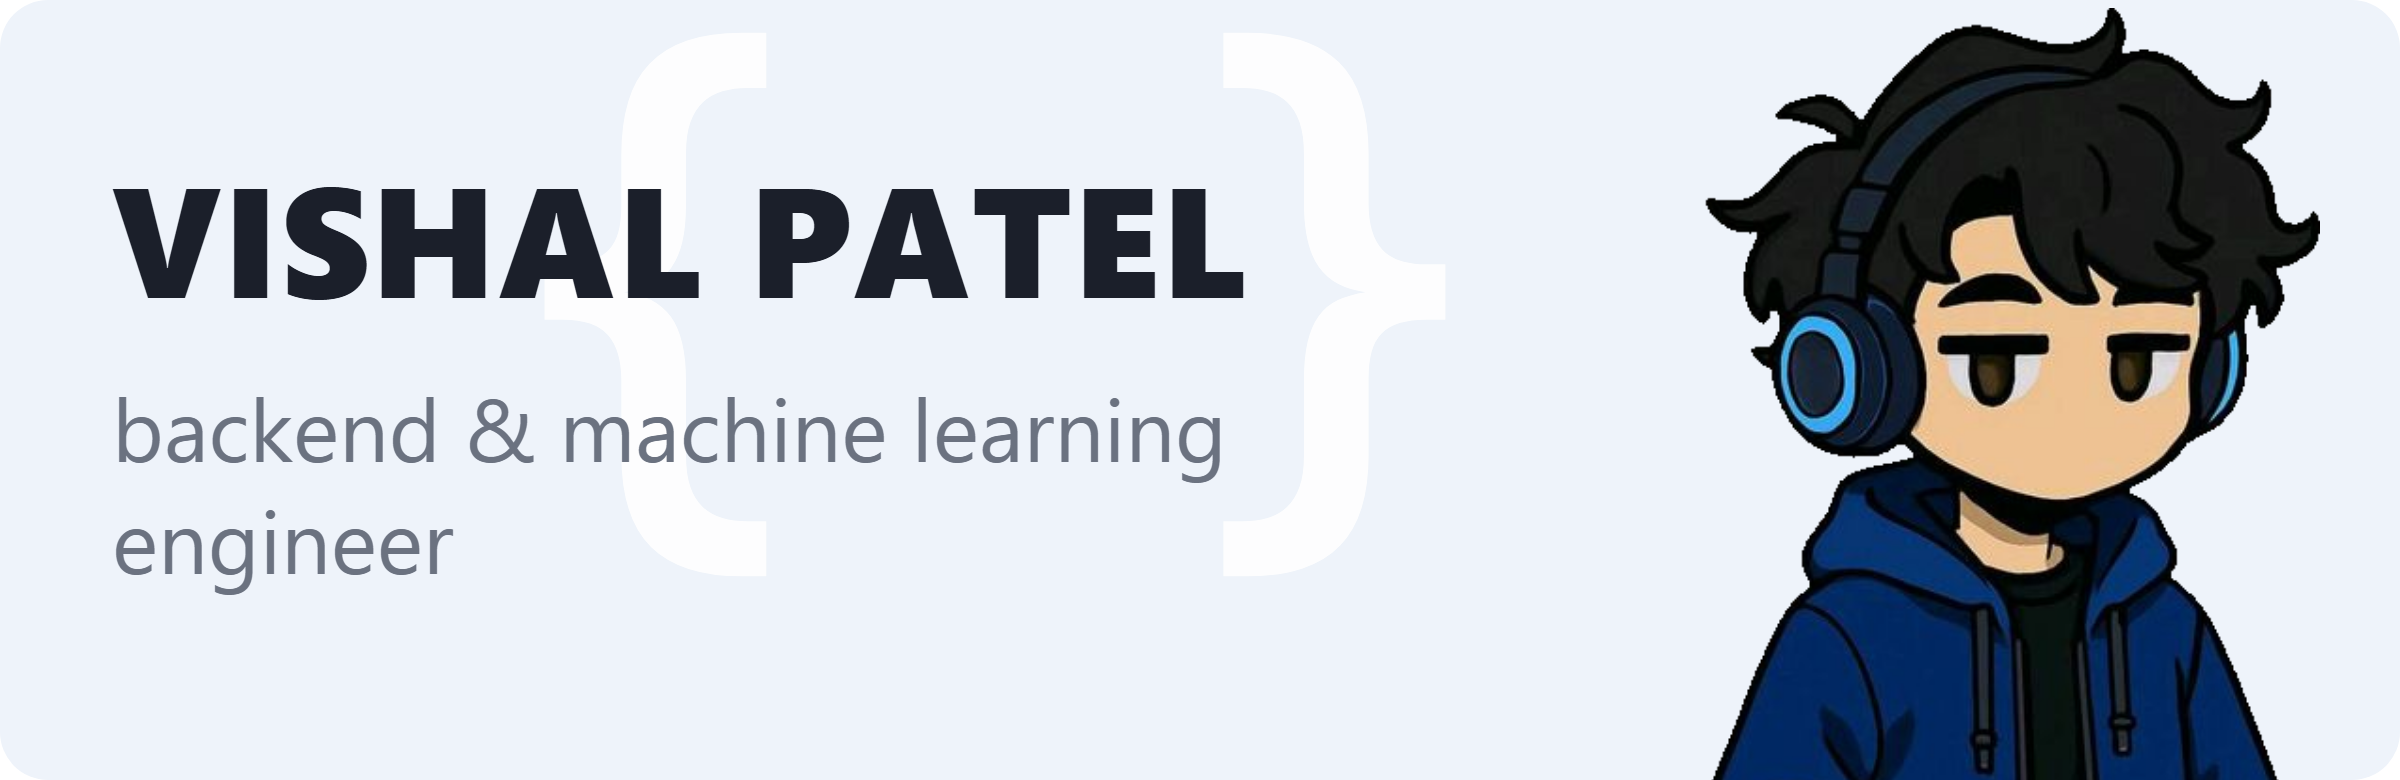
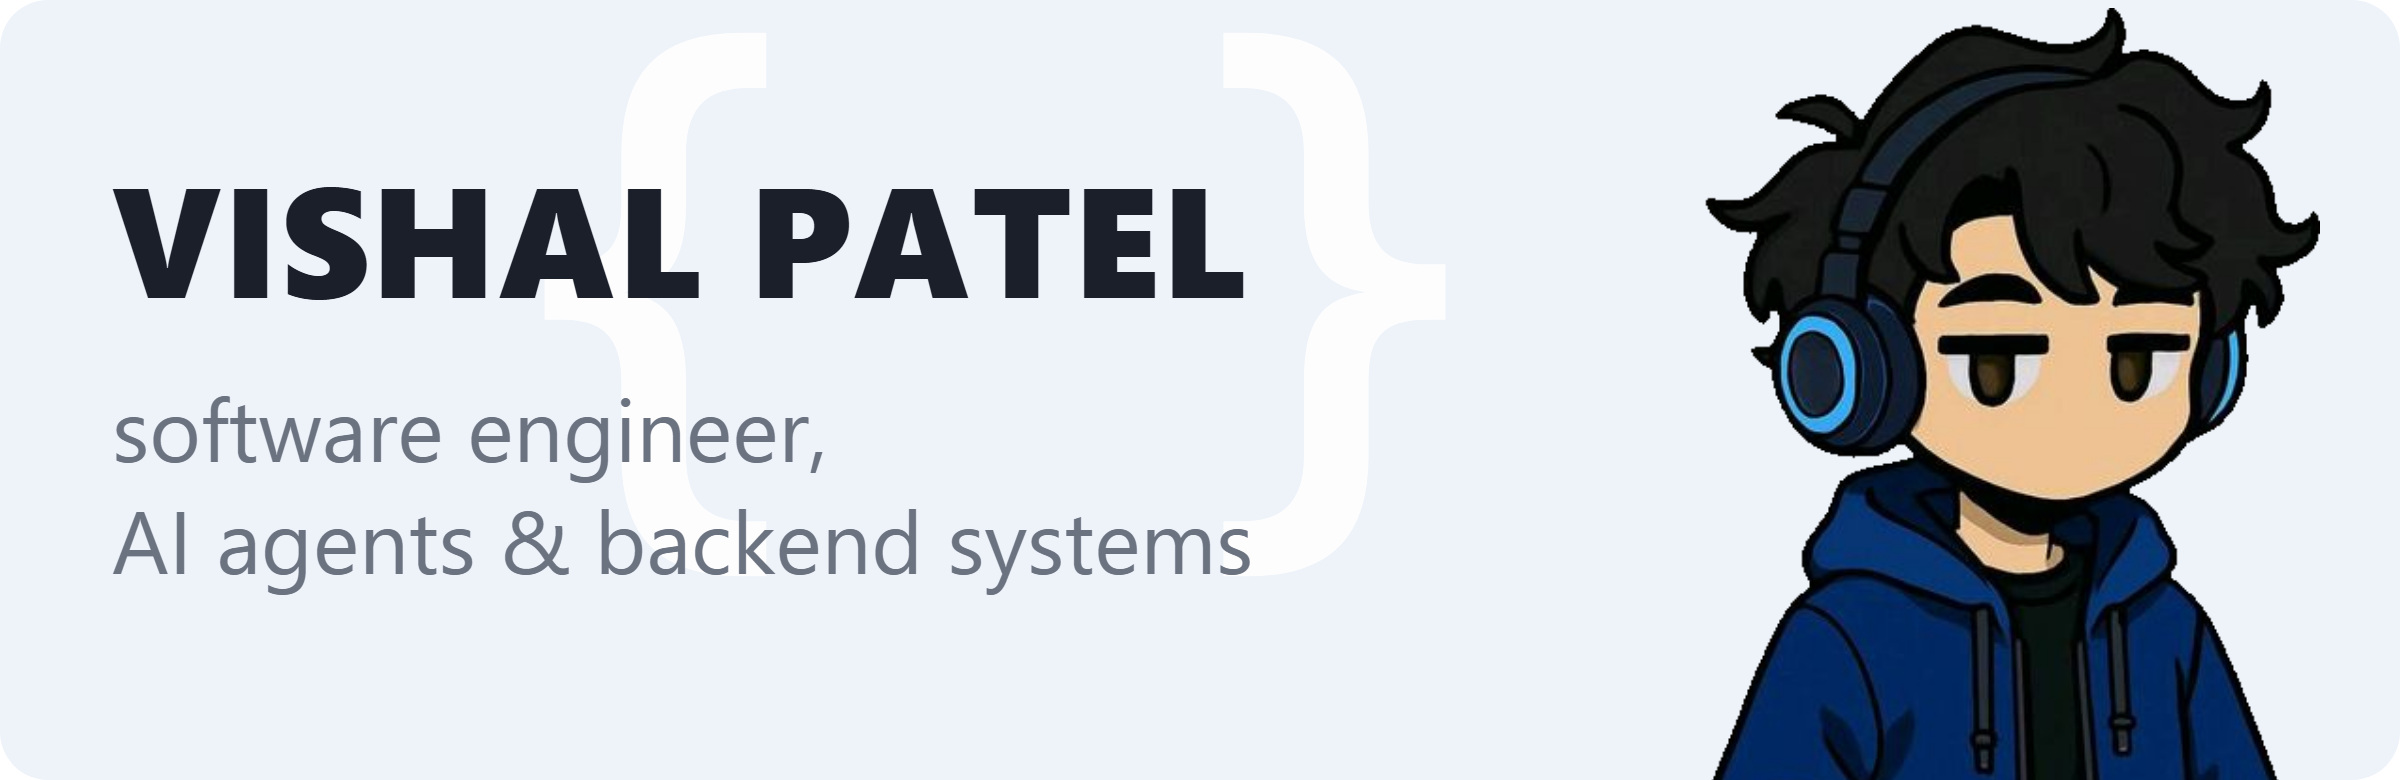
Retitle to software engineer, AI agents & backend systems
Claude-Session: https://claude.ai/code/session_01GsiTUdKBq25Wwq8PZTMJvJ

Changed region(s): [[0.0312, 0.5231, 0.5312, 0.6154], [0.0312, 0.6462, 0.5312, 0.7692]]

diff --git a/README.md b/README.md
@@ -2,7 +2,7 @@
 
 <img src="./assets/banner.png" width="100%" alt="banner that says Vishal Patel - backend and machine learning engineer alongside a cartoon illustration of Vishal wearing headphones">
 
-I'm a backend and machine learning engineer. I build production services and the ML systems behind them, then measure whether they hold up. Most of what's here started as a question I couldn't answer by reading, so I built the thing and checked the numbers. In 2026 my rental-scam checker [depositcheck](https://github.com/ishal1410/depositcheck) won the SerpApi "Best AI Use Case" award at the DevNetwork API+Cloud+AI Hackathon, and I have two pull requests open against [DataHub](https://github.com/datahub-project/datahub/pulls/ishal1410).
+I'm a software engineer. I build AI agents and the backend systems behind them, then measure whether they hold up. Most of what's here started as a question I couldn't answer by reading, so I built the thing and checked the numbers. In 2026 my rental-scam checker [depositcheck](https://github.com/ishal1410/depositcheck) won the SerpApi "Best AI Use Case" award at the DevNetwork API+Cloud+AI Hackathon, and I have two pull requests open against [DataHub](https://github.com/datahub-project/datahub/pulls/ishal1410).
 
 ## Things I've built 🔧
 
